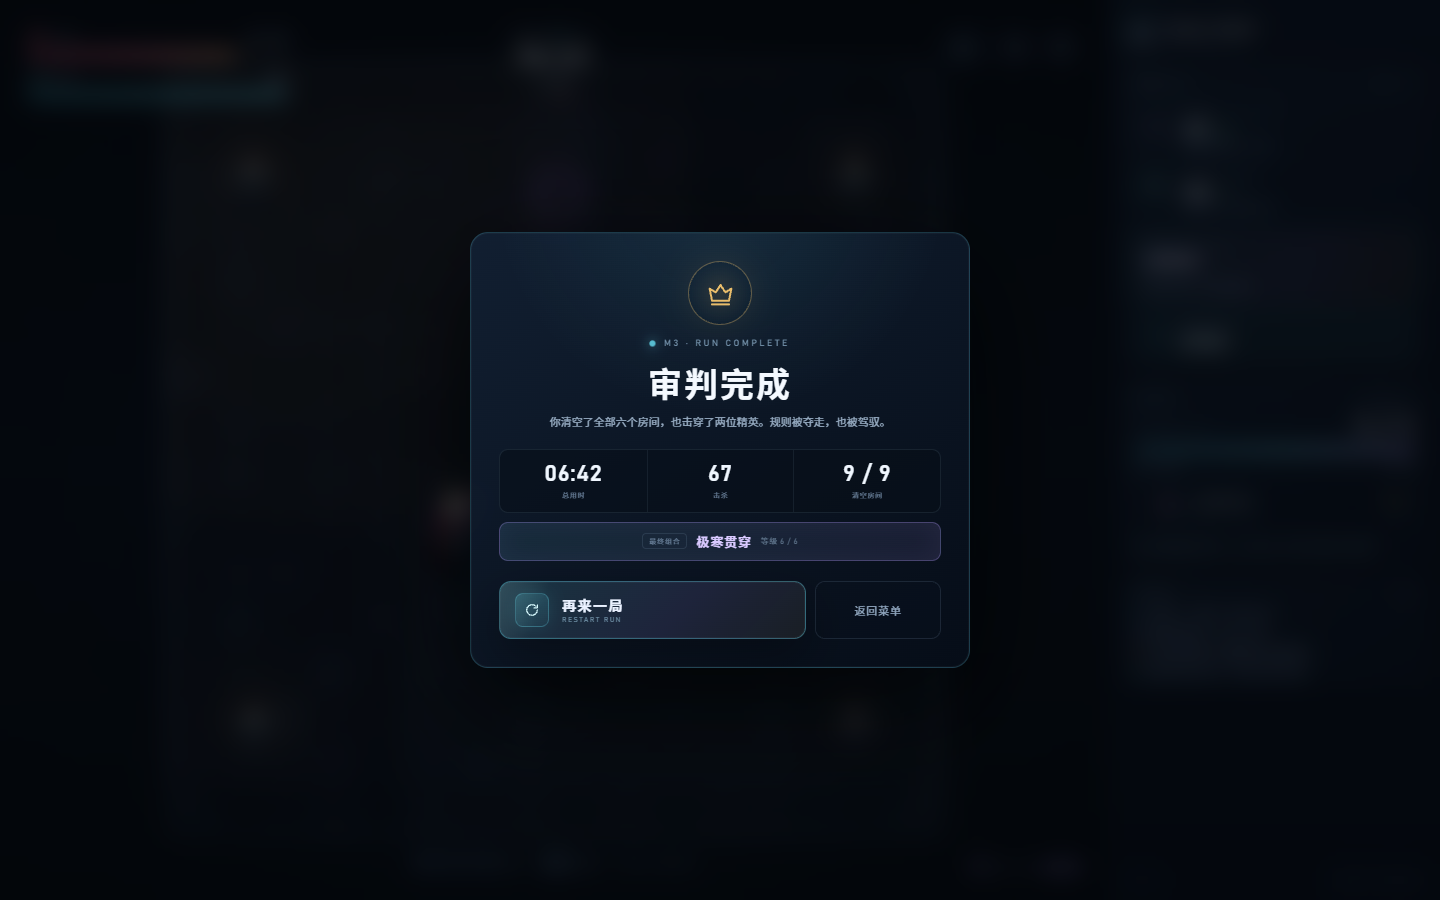
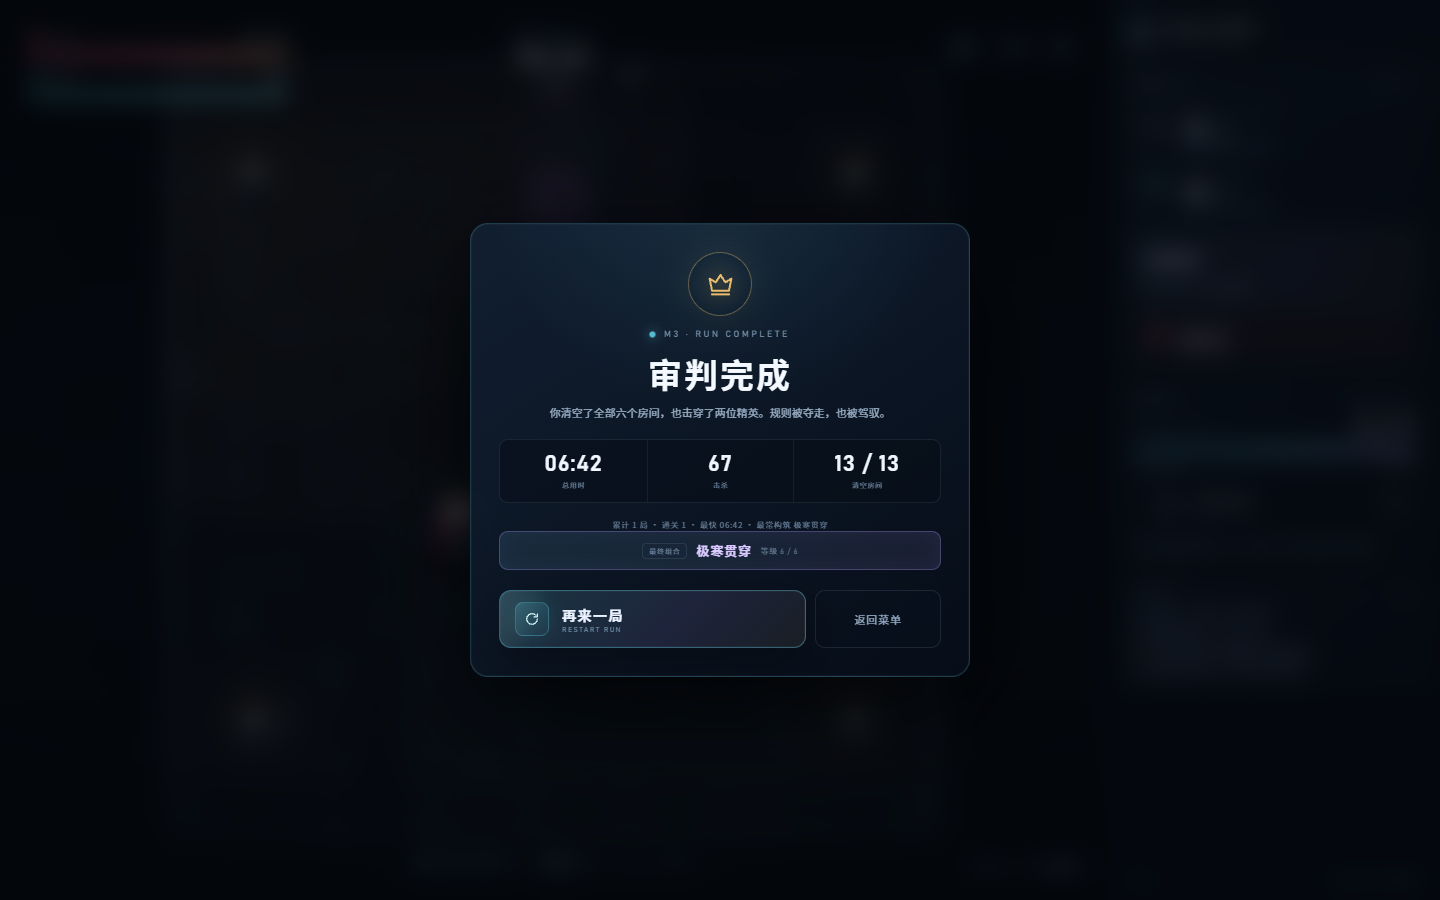
M4d: 精英节点后移 + 自动试玩复测（5/13 → 9/13）
- 重排路线：首精英从第 6 步移到第 9 步，第 6/8/10/11 步改为普通房
- 自动试玩复测：9/13、6:00、102 杀，首精英 140HP 进 22HP 出（惨胜）
- 刷新 13 步路线的路线/事件/菜单/结算截图
- 单测 82/82、冒烟 105/105

Changed region(s): [[0.3125, 0.2489, 0.6875, 0.7467]]

diff --git a/src/game/run.ts b/src/game/run.ts
@@ -176,13 +176,13 @@ export function buildRunPlan(random: () => number = Math.random): RunStep[] {
     { kind: 'choice', options: [room('echo-gallery'), room('bone-gallery')] },
     { kind: 'encounter', encounter: { kind: 'event', event: EVENTS[events[0]] } },
     { kind: 'encounter', encounter: room('mycelium-hall') },
-    { kind: 'choice', options: [room('sunder-pit'), room('ember-rift')] },
+    { kind: 'encounter', encounter: room('ember-rift') },
     { kind: 'encounter', encounter: { kind: 'event', event: EVENTS[events[1]] } },
     { kind: 'encounter', encounter: room('cinder-court') },
-    { kind: 'choice', options: [room('thunder-altar'), room('frostbone-gallery')] },
-    { kind: 'encounter', encounter: room('slag-yard') },
+    { kind: 'choice', options: [room('sunder-pit'), room('frostbone-gallery')] },
+    { kind: 'choice', options: [room('slag-yard'), room('frost-court')] },
     { kind: 'encounter', encounter: room('echo-vault') },
-    { kind: 'choice', options: [room('frost-court'), room('ash-gallery')] },
+    { kind: 'choice', options: [room('thunder-altar'), room('ash-gallery')] },
     { kind: 'encounter', encounter: room('judgement-hall') }
   ];
 }

diff --git a/README.md b/README.md
@@ -70,8 +70,8 @@ npm run dev
 ## 验证结果
 
 - 单元测试：**82/82 通过**（`rules` 19 + `rooms` 23 + `mutations` 12 + `run` 12 + `tuning` 6 + `telemetry` 7 + `theme` 3）。
-- 生产构建浏览器冒烟：**90–91/91 通过**（部分事件分支随机触发），无 console/page error。
-- 冒烟覆盖：7 房逐房推进、每房配额与敌人、精英领袖必出、精英房四选一、精英房保底突变且只能装 1 条、BOSS 三阶段切换、第三阶段封印、击杀 BOSS 结算 7/7、动态图鉴、9 组合名称、重开重置、死亡失败、手机流程。
+- 生产构建浏览器冒烟：**105–106 项通过**（部分事件分支随机触发），无 console/page error。
+- 冒烟覆盖：13 步路线（10 场战斗 + 2 事件 + BOSS）、分支二选一、每房配额与敌人、精英领袖必出、精英房四选一与保底突变、跨房修饰只作用一房、BOSS 三阶段与封印、结算 13/13、单局记录持久化、动态图鉴、9 组合名称、重开重置、死亡失败、手机流程。
 - 真实 Chrome（硬件 WebGL，headed）：房间 1（19 敌人 + 5 处火焰地面）**59.3fps**；BOSS 第三阶段（11 发扇形弹幕 + 召唤物）**60.3fps**；音频上下文 `running`。
 - 部署体积：`dist` 约 1.8MB；`public/assets` 约 460KB。
 
